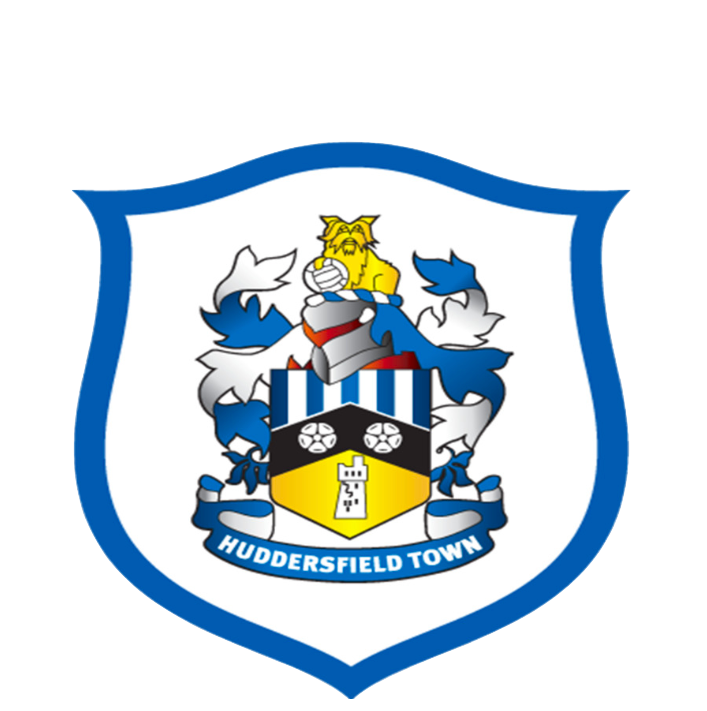
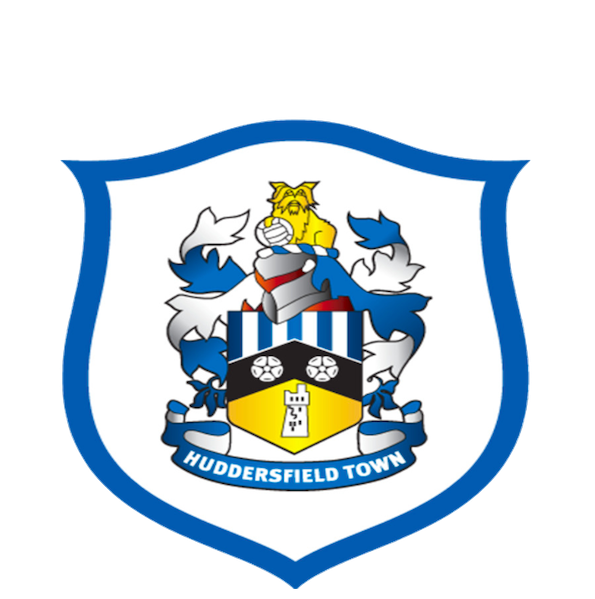
resize crests to appear uniform

diff --git a/src/TeamMatchesInfo.js b/src/TeamMatchesInfo.js
@@ -1,4 +1,5 @@
 import React, { Component } from 'react';
+import styled, { css } from 'styled-components';
 
 import Arsenal from './img/Crest/Arsenal.png';
 import Bournemouth from './img/Crest/Bournemouth.png';
@@ -75,10 +76,27 @@ export default class TeamMatchesInfo extends Component {
 
     render () {
         return(
-            <img src={
-                this.selectIMG(this.props.team)
-            } />
+            <Div>
+                <Img src={
+                    this.selectIMG(this.props.team)
+                } />
+            </Div>
         )
     }
 
 } 
+
+const Div = styled.div`
+    width: 38%;
+    margin-left: 0;
+    float: left;
+    position: fixed;
+`
+
+const Img = styled.img`
+    display: block;
+    margin-left: auto;
+    margin-right: auto;
+    margin-top: 5%;
+    background-size: contain;
+`

diff --git a/src/StyledComponents/OpaqueBackground.js b/src/StyledComponents/OpaqueBackground.js
@@ -14,3 +14,5 @@ const OpaqueBackground = styled.div`
     border-right: 1px solid black;
 `
 export default OpaqueBackground;
+
+// change OpaqueBackground? It's just a container now. No overflow scroll. That would be on the child.
